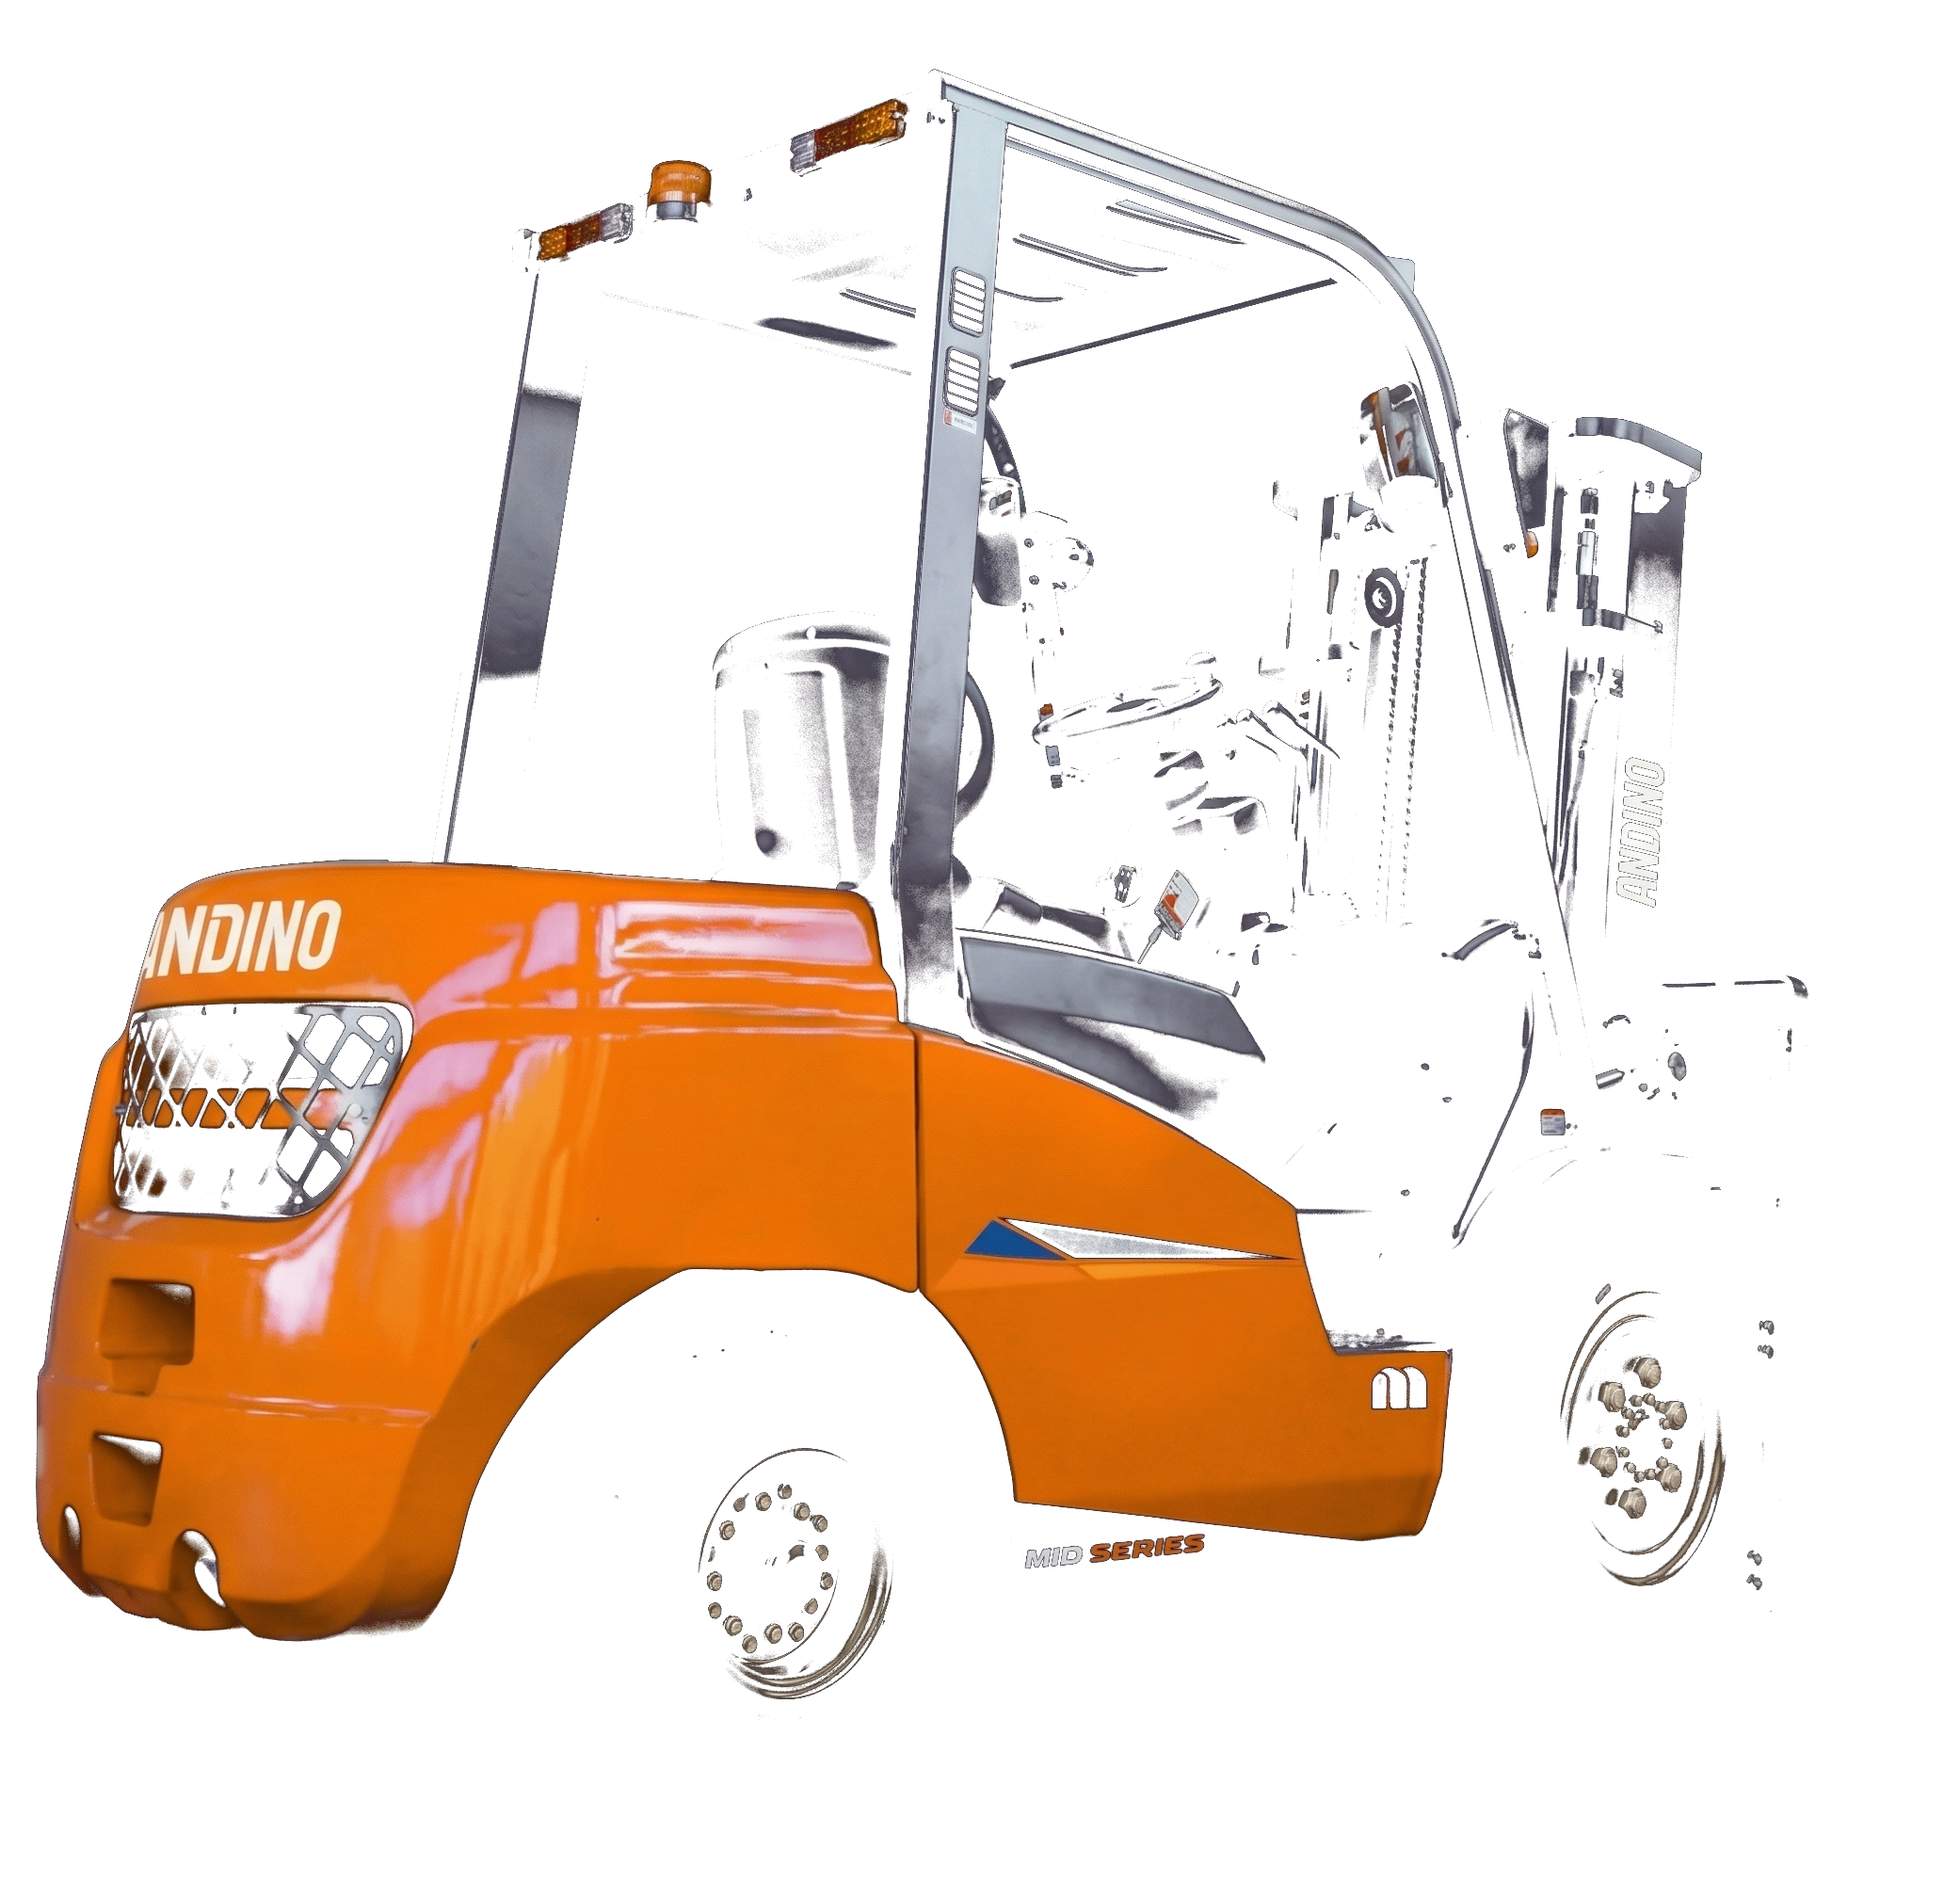
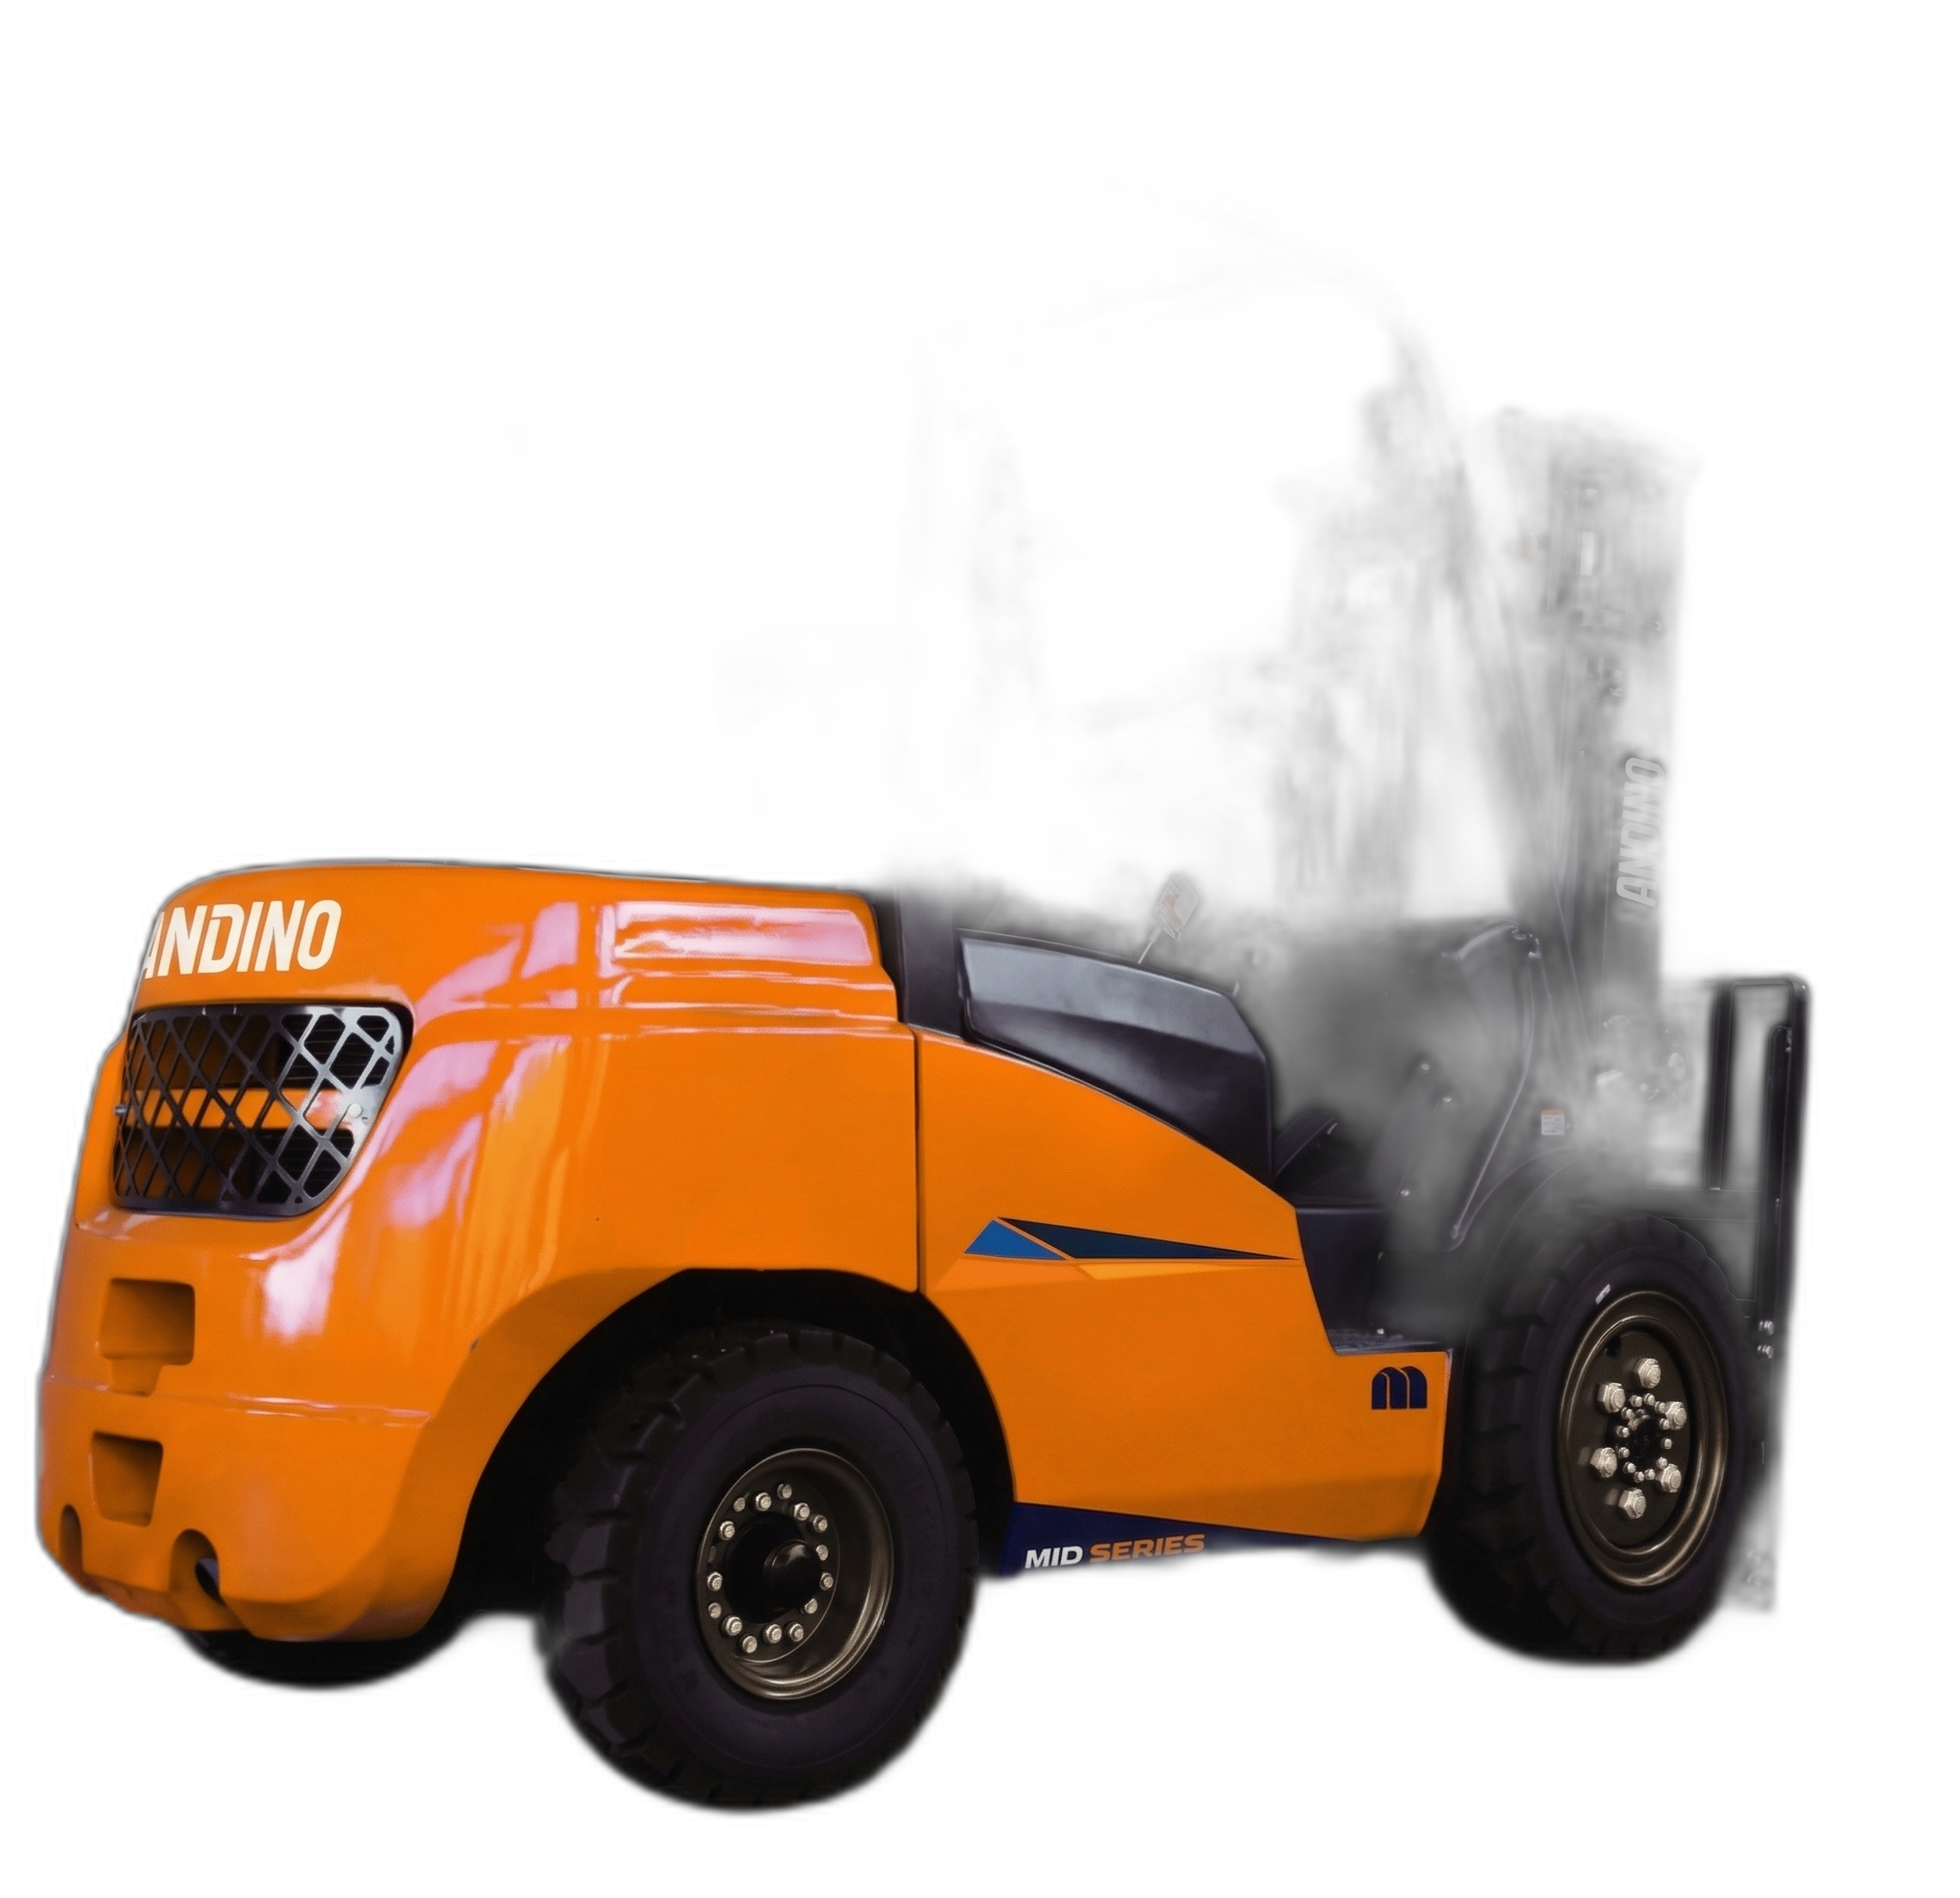
fix: remove backgrounds from all product images for theme compatibility
- Process u20w3li, tan35d, uprr15li and tan35d-hero through rembg
- Update store-data.ts to use -nobg.png versions for catalog cards
- Update hero to use tan35d-hero-nobg.png
- Products now display cleanly on both light and dark backgrounds

diff --git a/src/lib/store-data.ts b/src/lib/store-data.ts
@@ -44,7 +44,7 @@ export const storeProducts: StoreProduct[] = [
     categoriaLabel: 'Montacarga Eléctrico',
     capacidad: '2,000 kg',
     motor: 'Eléctrico Li-Ion',
-    imagen: '/images/products/u20w3li.jpeg',
+    imagen: '/images/products/u20w3li-nobg.png',
     imagenNoBg: '/images/products/u20w3li-nobg.png',
     precioDesde: 19800,
     badge: 'Eléctrico',
@@ -77,7 +77,7 @@ export const storeProducts: StoreProduct[] = [
     categoriaLabel: 'Montacarga Combustión',
     capacidad: '3,500 kg',
     motor: 'Diesel',
-    imagen: '/images/products/tan35d.jpeg',
+    imagen: '/images/products/tan35d-nobg.png',
     imagenNoBg: '/images/products/tan35d-nobg.png',
     precioDesde: 22000,
     badge: 'Mas Vendido',
@@ -109,7 +109,7 @@ export const storeProducts: StoreProduct[] = [
     categoriaLabel: 'Apilador Eléctrico',
     capacidad: '1,500 kg',
     motor: 'Eléctrico',
-    imagen: '/images/products/uprr15li.jpeg',
+    imagen: '/images/products/uprr15li-nobg.png',
     imagenNoBg: '/images/products/uprr15li-nobg.png',
     precioDesde: 8500,
     badge: 'Compacto',

diff --git a/src/app/(store)/productos/page.tsx b/src/app/(store)/productos/page.tsx
@@ -70,7 +70,7 @@ export default function ProductosPage() {
               <div className="absolute inset-0 bg-gradient-to-br from-[#E8821C]/[0.06] to-transparent rounded-3xl blur-[60px]" />
               <div className="relative">
                 <Image
-                  src="/images/products/tan35d-hero.png"
+                  src="/images/products/tan35d-hero-nobg.png"
                   alt="Montacarga ANDINO TAN35D"
                   width={600}
                   height={500}
